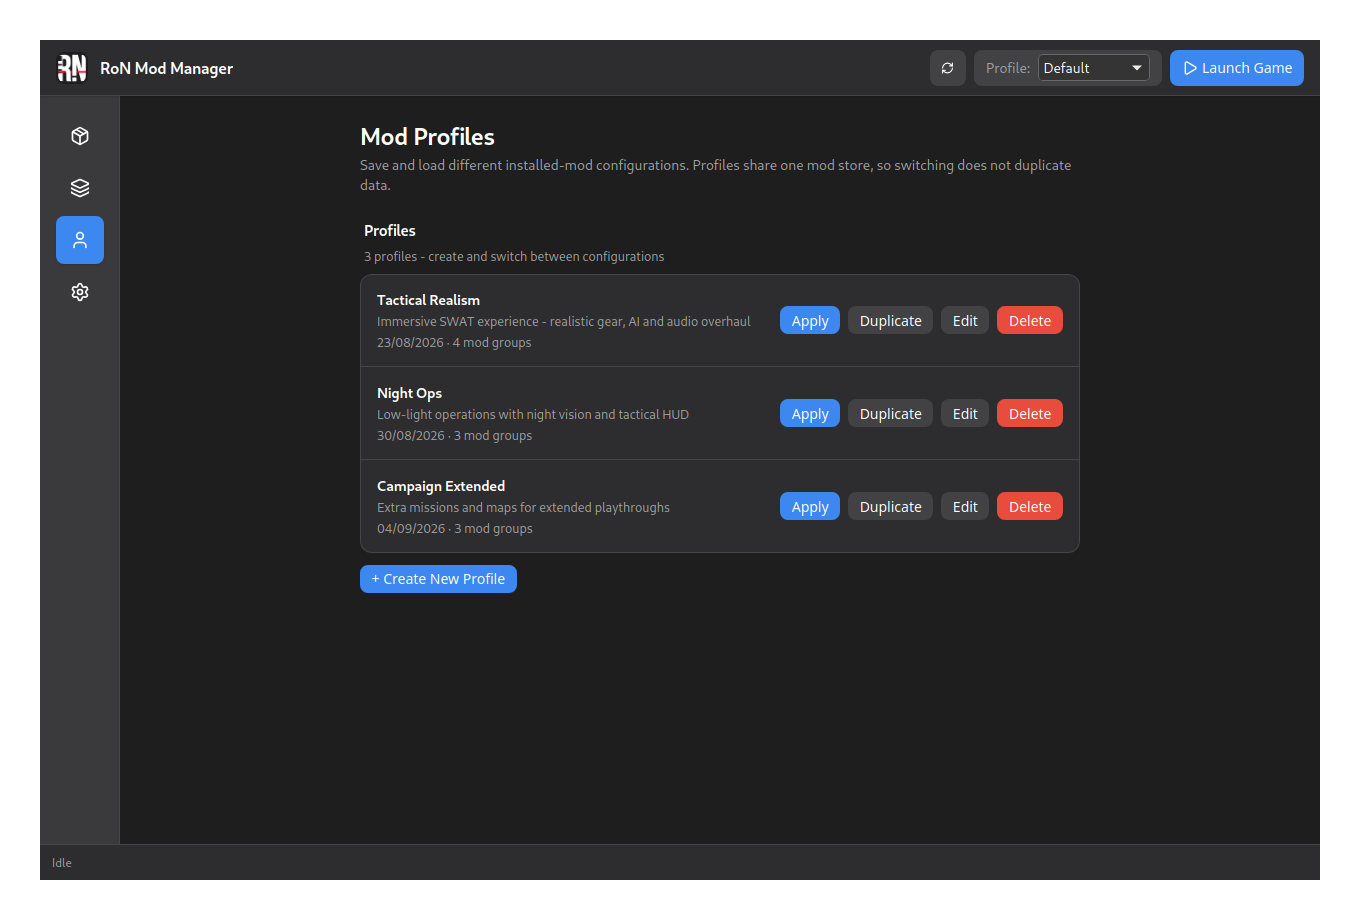
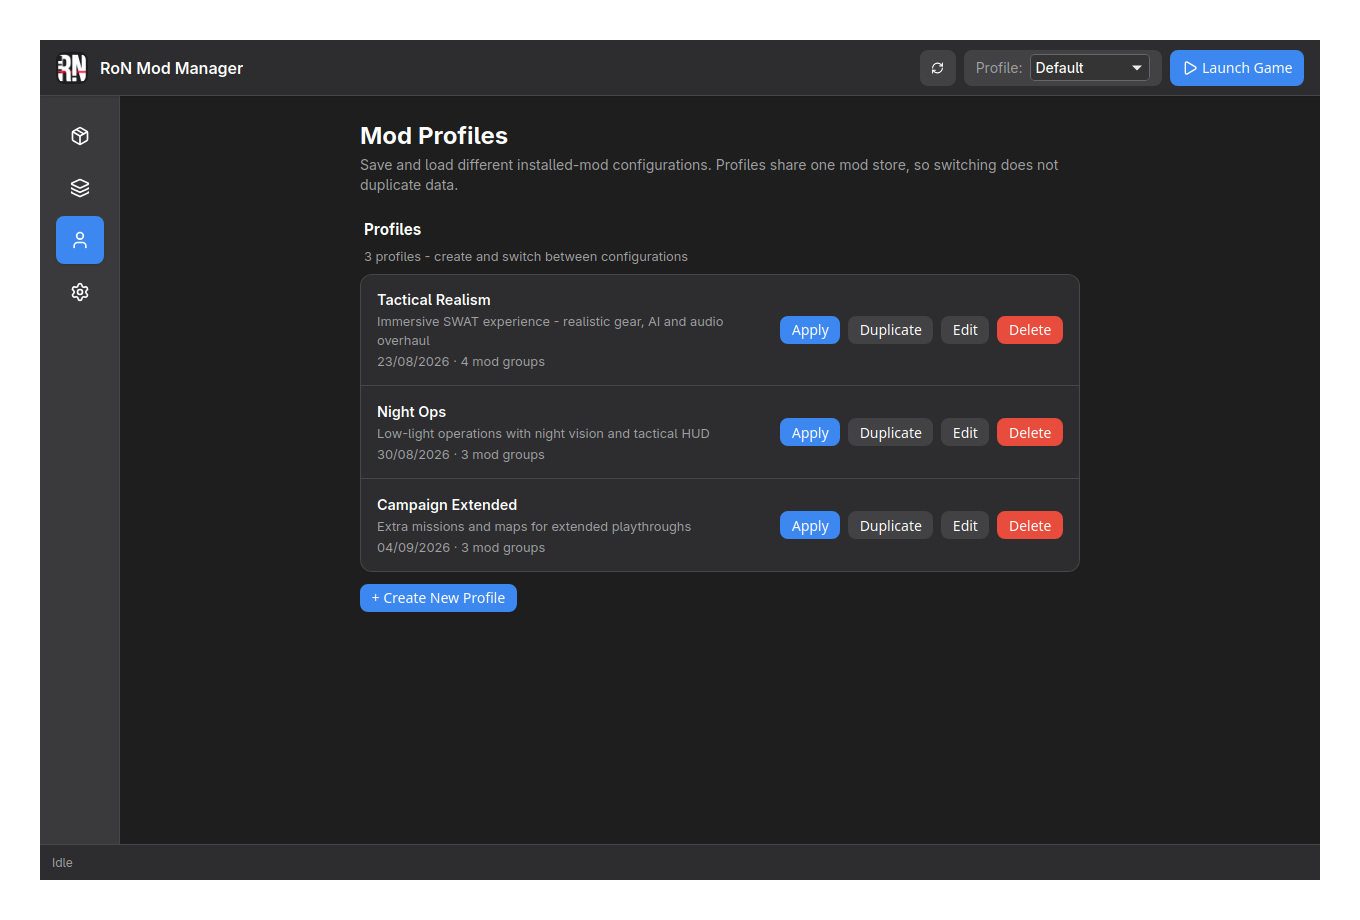
feat: Add Adwaita Sans and Mono fonts

diff --git a/src/app.css b/src/app.css
@@ -2,9 +2,20 @@
 @import "adwavecss/dist/styles.css";
 @import "$lib/components/toast.css";
 
+/* Tailwind v4 theme: route font-sans/font-mono utilities to Adwaita. */
+@theme {
+  --font-sans:
+    "Adwaita Sans", "Inter", "Cantarell", system-ui, -apple-system, sans-serif;
+  --font-mono:
+    "Adwaita Mono", ui-monospace, "Cascadia Mono", "JetBrains Mono", monospace;
+}
+
 /* ADWaveCSS Color Variables for GNOME/Libadwaita Theme */
 :root {
-  --adw-font-family: "Cantarell", "Inter", system-ui, -apple-system, sans-serif;
+  --adw-font-family:
+    "Adwaita Sans", "Inter", "Cantarell", system-ui, -apple-system, sans-serif;
+  --adw-font-mono:
+    "Adwaita Mono", ui-monospace, "Cascadia Mono", "JetBrains Mono", monospace;
   color-scheme: light;
 
   /* ADWaveCSS button colors */
@@ -154,6 +165,13 @@ body {
   font-family: var(--adw-font-family);
   background: var(--clr-bg);
   color: var(--clr-text);
+}
+
+code,
+pre,
+kbd,
+samp {
+  font-family: var(--adw-font-mono);
 }
 
 /* Utility classes for compatibility */

diff --git a/src/routes/+layout.svelte b/src/routes/+layout.svelte
@@ -57,6 +57,14 @@
   } from "lucide-svelte";
   import semver from "semver";
   import { onMount } from "svelte";
+  // Self-hosted Adwaita fonts (OFL-1.1, via Fontsource) - must load before app.css.
+  // Sans covers body + semibold headings; Mono covers log/code views.
+  import "@fontsource/adwaita-sans/400.css";
+  import "@fontsource/adwaita-sans/500.css";
+  import "@fontsource/adwaita-sans/600.css";
+  import "@fontsource/adwaita-sans/700.css";
+  import "@fontsource/adwaita-mono/400.css";
+  import "@fontsource/adwaita-mono/700.css";
   import "../app.css";
 
   import AddModpackPanel from "$lib/components/AddModpackPanel.svelte";
